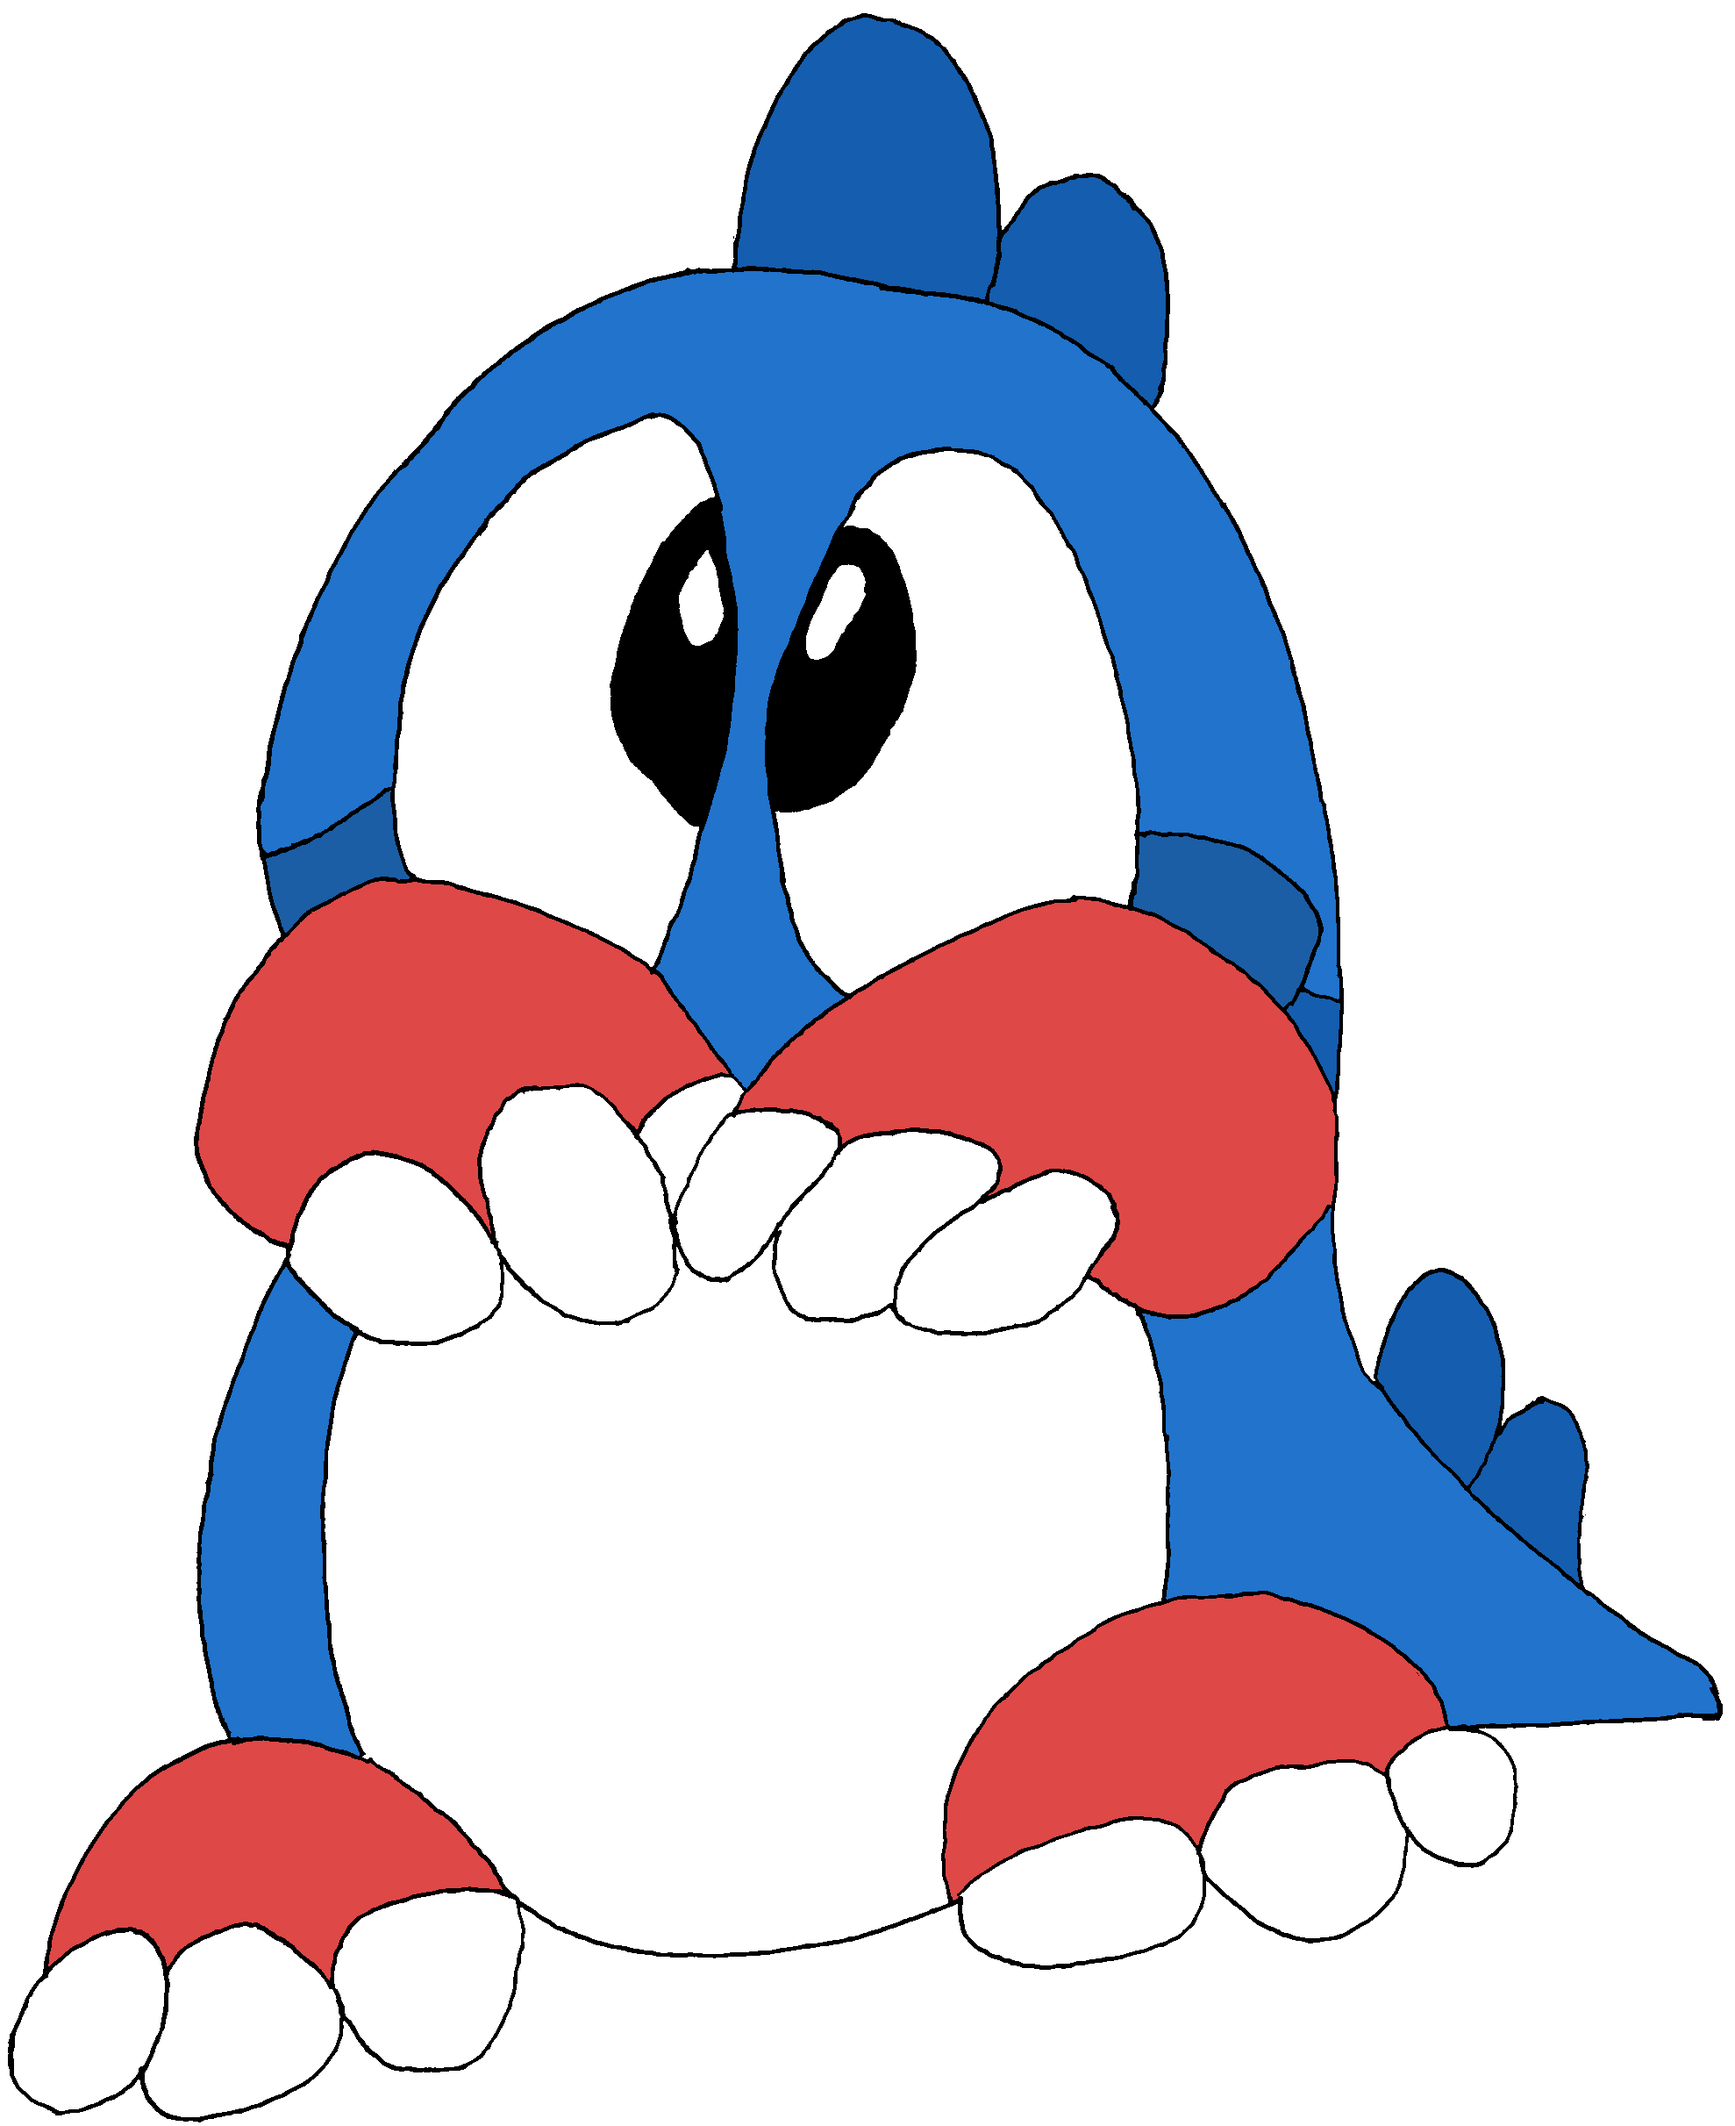
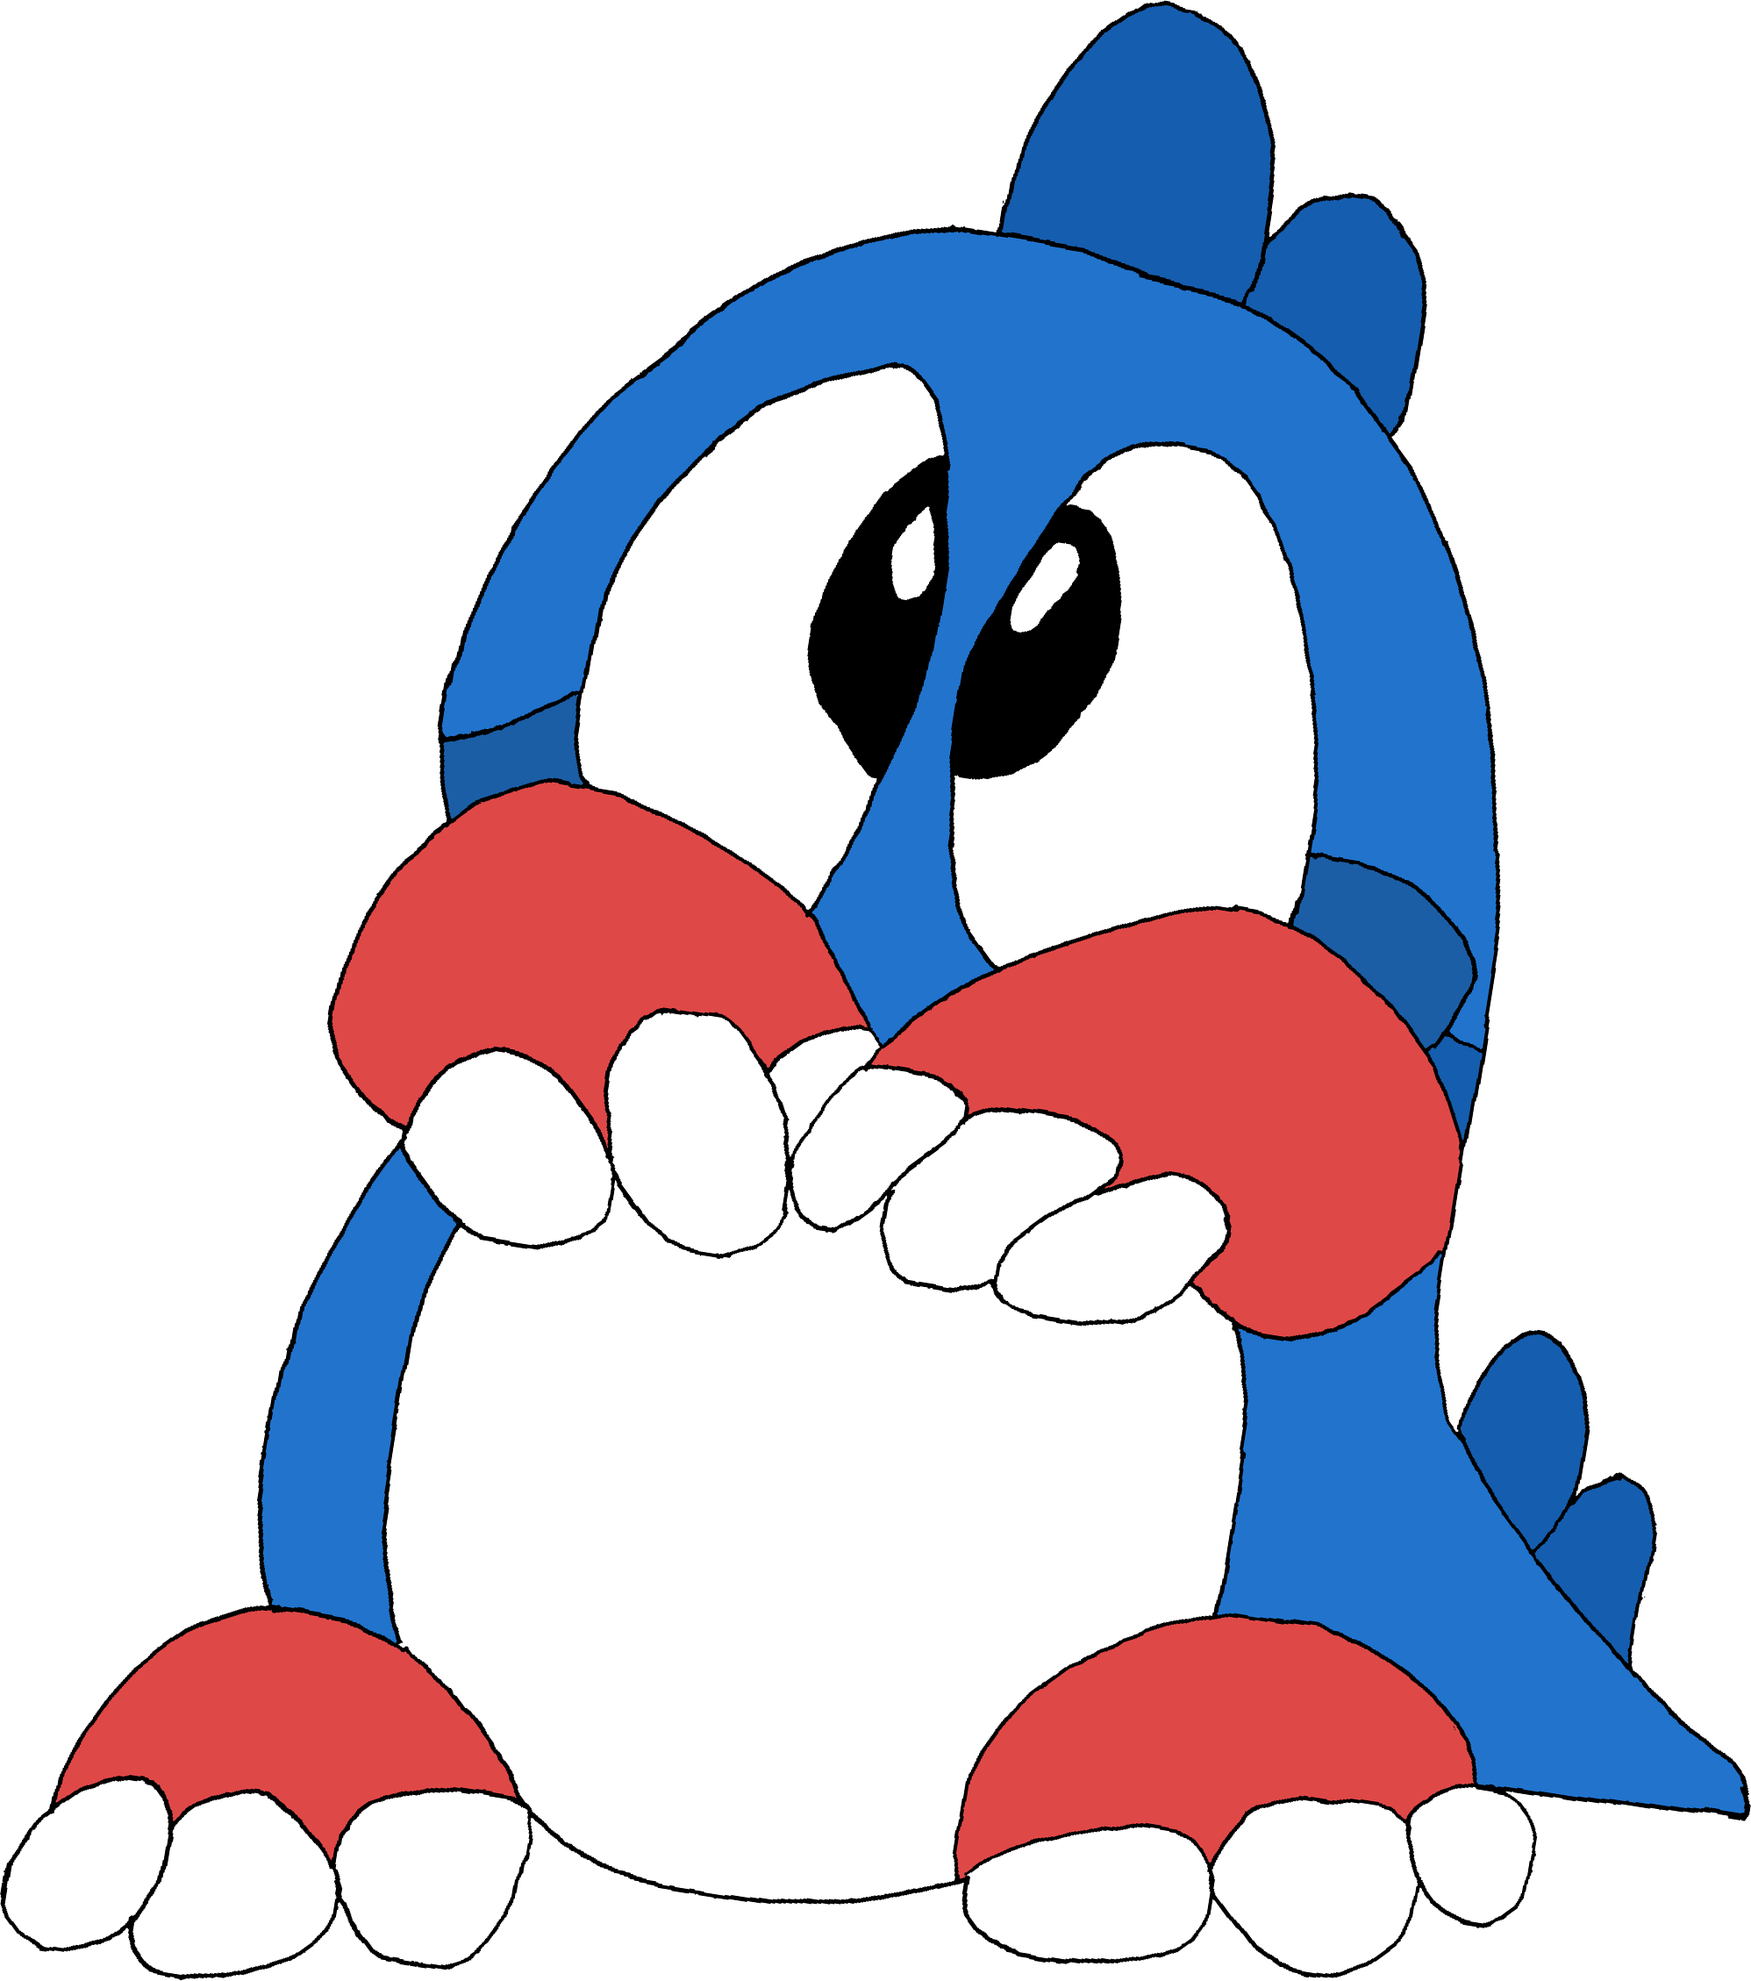
here there be dragons...

diff --git a/AS1 - Bouncing Balls - Visual Studio Project/AS1 - Bouncing Balls/GameGraphics.cpp b/AS1 - Bouncing Balls - Visual Studio Project/AS1 - Bouncing Balls/GameGraphics.cpp
@@ -191,15 +191,14 @@ Dragon::Dragon() {
 
     string path_components[50] = { "resources",
         "images",
-        "kawaii",
+        "kawaii 2",
         dragon_color + ".png"};
 
     dragon_texture.loadFromFile(path_builder(path_components));
     dragon_texture.setSmooth(true);
     dragon.setTexture(dragon_texture);
 
-    dragon_scale = random_float(0.1, 0.2);
-
+    dragon_scale = random_float(0.05, 0.12);
 }
 
 void Dragon::compute(string position) {
